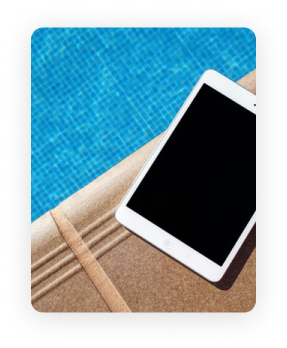
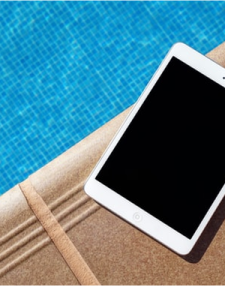
dsaas

diff --git a/css/style.css b/css/style.css
@@ -228,8 +228,14 @@ p {
   align-items: center;
 }
 .img_row1 {
+  width: 80%;
   display: flex;
   flex-direction: row;
+  justify-content: space-between;
+}
+.img_row1 img{
+  border-radius: 12px;
+  
 }
 .img_row2 {
   display: flex;
@@ -369,6 +375,7 @@ footer {
   margin-top: 200px;
   width: 80% !important;
   display: flex;
+  flex-direction: row;
   margin-left: 10%;
   padding-top: 300px;
   padding-bottom: 100px;
@@ -376,6 +383,7 @@ footer {
 }
 .left_cont {
   display: flex;
+ 
 }
 .padding {
   padding: 0px 80px 0px 80px;
@@ -500,12 +508,15 @@ footer {
     width: 308px;
     display: flex;
     flex-direction: column;
+
   }
 .img_row1 img{
-width: 100%;
-height: auto;
-  object-fit: contain;
+  width: 100%;
+  height: auto;
+  border-radius: 12px;
+  margin-bottom: 50px;
 }
+
   .img_row2 {
     display: none;
   }

diff --git a/index.html b/index.html
@@ -154,7 +154,7 @@
       </div>
       <div class="gallery">
         <div class="img_row1">
-          <img src="./images/Card-1.png" alt="" />
+          <img src="./images/Card-1.png" alt=""/>
           <img src="./images/Card-2.png" alt="" />
           <img src="./images/Card-3.png" alt="" />
           <img src="./images/Card.png" alt="" />
